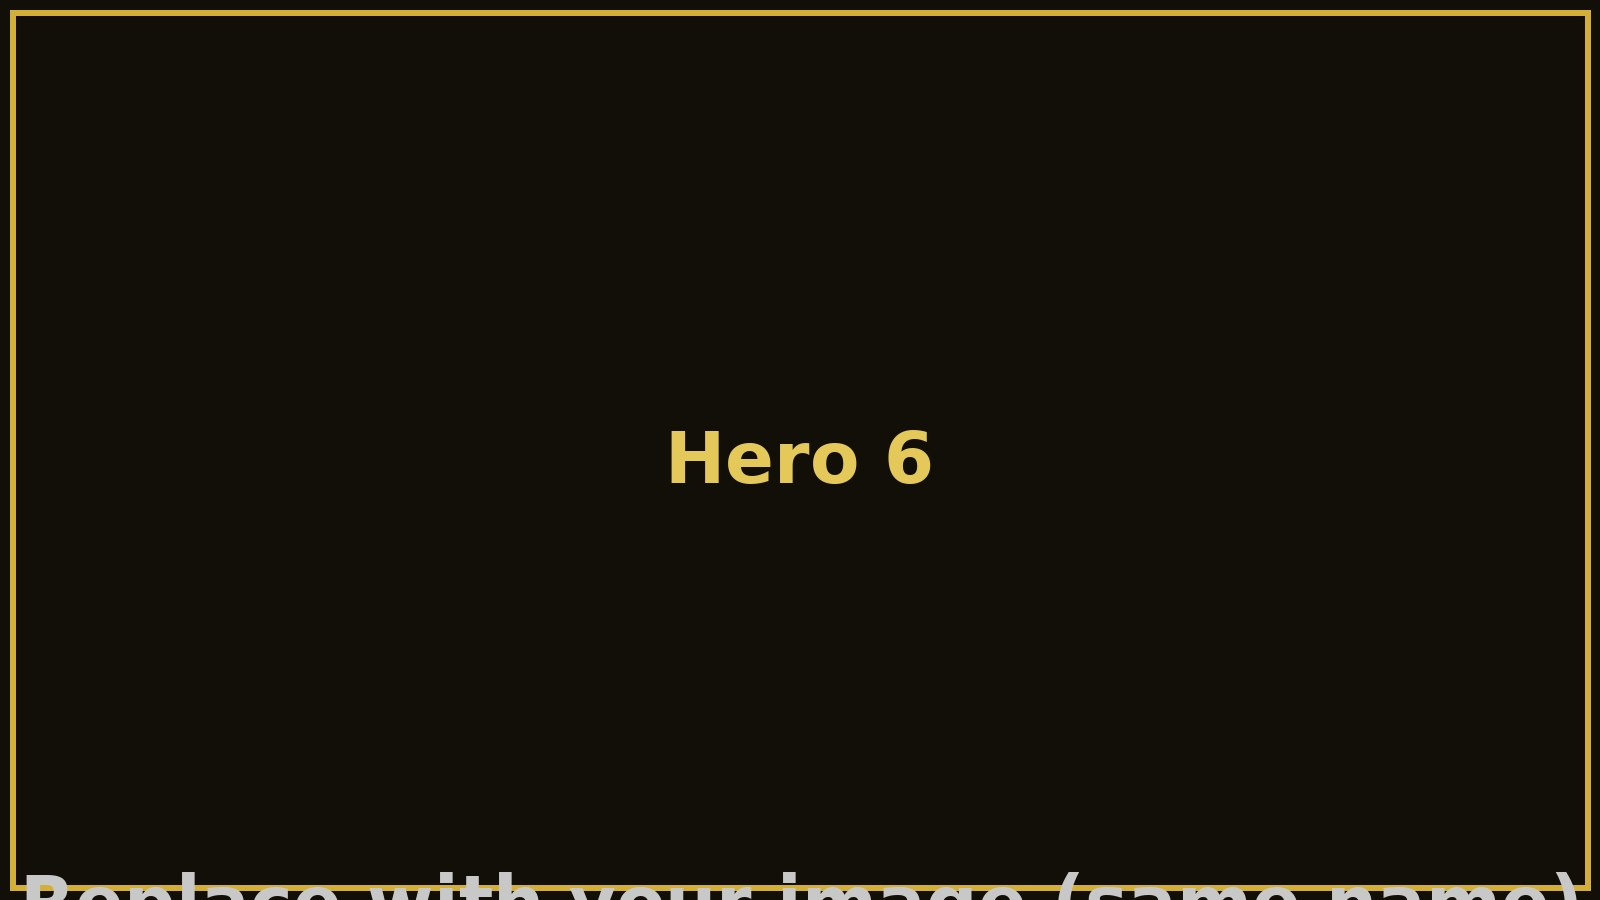
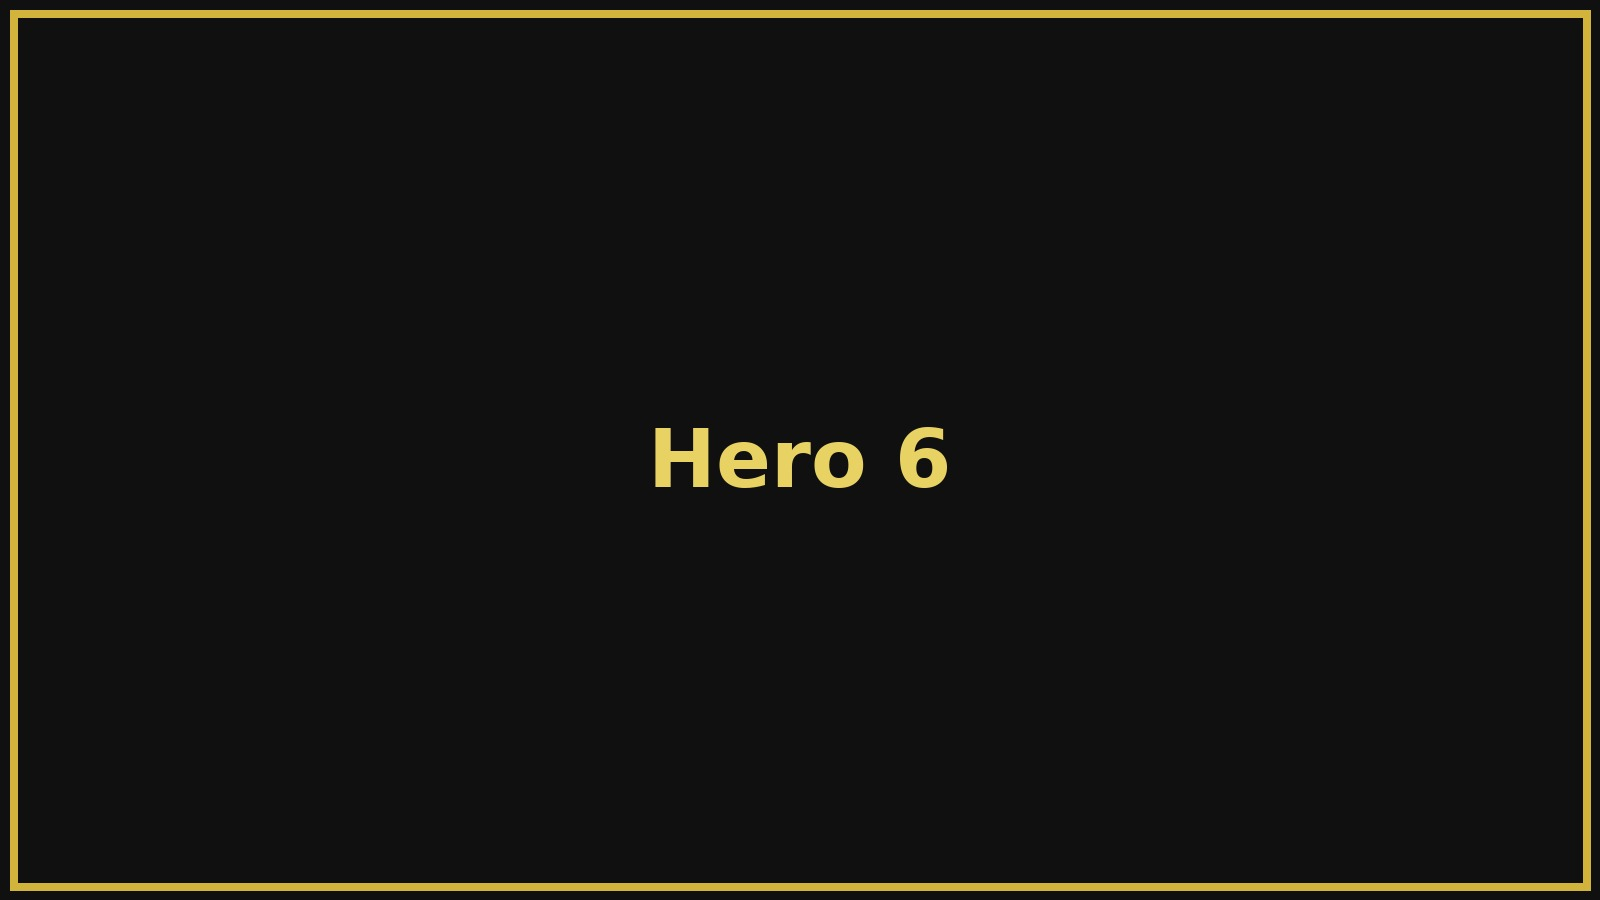
Add files via upload

Changed region(s): [[0.0, 0.9644, 1.0, 1.0], [0.0312, 0.0, 0.9688, 0.0311], [0.4062, 0.4667, 0.5938, 0.56]]

diff --git a/app.js b/app.js
@@ -1,0 +1,106 @@
+const heroImgs = Array.from({length:8}, (_,i)=>`public/hero/${i+1}.jpg`);
+const actionImgs = Array.from({length:8}, (_,i)=>`public/action/${i+1}.jpg`);
+const nftImgs = Array.from({length:8}, (_,i)=>`public/nft-preview/${i+1}.jpg`);
+
+async function getAddresses(){
+  const r = await fetch(`config/addresses.json?v=${Date.now()}`);
+  return r.json();
+}
+function preload(urls){ urls.forEach(u=>{ const im=new Image(); im.src=u; }); }
+
+function drawDonut(canvas, items){
+  const ctx = canvas.getContext('2d');
+  const DPR = window.devicePixelRatio || 1;
+  const W = canvas.clientWidth * DPR, H = canvas.clientHeight * DPR;
+  canvas.width=W; canvas.height=H;
+  const cx=W/2, cy=H/2, R=Math.min(W,H)/2-8*DPR, r=R*0.62;
+  const total = items.reduce((a,b)=>a+b.value,0)||1;
+  let a0 = -Math.PI/2;
+  const base = [50,120,190,260,320];
+  items.forEach((it,i)=>{
+    const a1 = a0 + 2*Math.PI*(it.value/total);
+    const hue = base[i%base.length];
+    ctx.beginPath();
+    ctx.arc(cx,cy,R,a0,a1);
+    ctx.arc(cx,cy,r,a1,a0,true);
+    ctx.closePath();
+    ctx.fillStyle = `hsl(${hue} 80% 58%)`;
+    ctx.fill();
+    a0=a1;
+  });
+  ctx.fillStyle = '#f5e6b3';
+  ctx.font = `${16*DPR}px system-ui`;
+  ctx.textAlign='center';
+  ctx.fillText('Tokenomics', cx, cy+6*DPR);
+}
+
+function renderGrid(el, srcs, labelPrefix){
+  el.innerHTML = srcs.map((src,i)=>`
+    <div class="card">
+      <img alt="${labelPrefix} ${i+1}" src="${src}"/>
+      <div class="title">${labelPrefix} ${i+1}</div>
+    </div>
+  `).join('');
+}
+function zero2(n){ return n.toString().padStart(2,'0'); }
+
+(async function init(){
+  const addr = await getAddresses();
+  const token = addr.token;
+  document.getElementById('buy').href = `https://pancakeswap.finance/swap?outputCurrency=${token}`;
+  document.getElementById('scan').href = `https://bscscan.com/token/${token}`;
+  document.getElementById('tg').href = 'https://t.me/+p1BMrdypmDFmNTA1';
+  document.getElementById('x').href = 'https://x.com/Flexcoinmeme';
+
+  const hero = document.getElementById('hero-img');
+  let idx=0;
+  setInterval(()=>{
+    idx=(idx+1)%heroImgs.length;
+    hero.style.opacity=0.0;
+    setTimeout(()=>{ hero.src=heroImgs[idx]; hero.style.opacity=1; }, 200);
+  }, 3500);
+
+  preload([...heroImgs, ...actionImgs, ...nftImgs]);
+
+  const target = new Date('2025-12-01T12:00:00Z').getTime();
+  function tick(){
+    const now = Date.now();
+    let s = Math.max(0, Math.floor((target-now)/1000));
+    const d = Math.floor(s/86400); s-=d*86400;
+    const h = Math.floor(s/3600); s-=h*3600;
+    const m = Math.floor(s/60); s-=m*60;
+    document.getElementById('dd').textContent=d;
+    document.getElementById('hh').textContent=zero2(h);
+    document.getElementById('mm').textContent=zero2(m);
+    document.getElementById('ss').textContent=zero2(s);
+  }
+  tick(); setInterval(tick,1000);
+
+  renderGrid(document.getElementById('action-grid'), actionImgs, 'Action');
+  renderGrid(document.getElementById('nft-grid'), nftImgs, 'NFT');
+
+  const tokenomics = [
+    {label:'Liquidity Pool', value:69},
+    {label:'Presale', value:10},
+    {label:'Marketing', value:10},
+    {label:'Team (Lock 6m + 6m linear)', value:10},
+    {label:'Burn', value:1},
+  ];
+  drawDonut(document.getElementById('donut'), tokenomics);
+  document.getElementById('legend').innerHTML = tokenomics.map((t,i)=>`
+    <div style="display:flex;align-items:center;gap:8px">
+      <span style="width:12px;height:12px;border-radius:50%;background:hsl(${[50,120,190,260,320][i%5]} 80% 58%)"></span>
+      <span>${t.label}: <b>${t.value}%</b></span>
+    </div>
+  `).join('');
+
+  const langs = ['en','ko','ja','zh','es','de','pt','it'];
+  const grid = document.getElementById('wp-grid');
+  grid.innerHTML = langs.map(code=>{
+    const label = code.toUpperCase() + ' PDF';
+    return `<a class="card" href="public/whitepaper/whitepaper_${code}.pdf" target="_blank"><div class="title">${label}</div></a>`;
+  }).join('');
+
+  document.getElementById('footer').textContent =
+    `Team/Lock: ${addr.team} • Marketing: ${addr.marketing} • Receiver: ${addr.receiver} • Burn: ${addr.burn}`;
+})();

diff --git a/styles.css b/styles.css
@@ -1,0 +1,40 @@
+*{box-sizing:border-box}
+:root{
+  --bg:#0a0a0a; --panel:#111; --gold:#e8c84a; --gold2:#caa93a; --ink:#efe6c9;
+  --stroke:rgba(255,215,0,.35);
+}
+html,body{margin:0;padding:0;background:#000;color:#f4f0d9;font-family:ui-sans-serif,system-ui,-apple-system,Segoe UI,Roboto}
+.wrap{max-width:1180px;margin:0 auto;padding:16px}
+h1{font-size:36px;letter-spacing:.5px;text-shadow:0 2px 10px rgba(255,220,90,.25)}
+.section{font-size:28px;margin:24px 0 8px}
+
+.hero{position:relative;width:100%;aspect-ratio:16/9;overflow:hidden;border-radius:18px;border:2px solid var(--stroke);box-shadow:0 0 30px rgba(255,215,0,.12);margin-bottom:36px}
+.hero img{position:absolute;inset:0;width:100%;height:100%;object-fit:cover;transition:opacity .6s ease}
+.badge{position:absolute;left:16px;top:16px;background:rgba(0,0,0,.55);border:1px solid var(--stroke);padding:6px 10px;border-radius:10px;font-weight:700}
+
+.countdown{display:flex;gap:10px;align-items:center;justify-content:flex-start;margin:12px 0 16px}
+.countdown .cell{display:flex;flex-direction:column;align-items:center;justify-content:center;border:1px solid var(--stroke);border-radius:10px;padding:8px 12px;background:linear-gradient(#1a1a1a,#0d0d0d)}
+.countdown .cell div{font-size:22px;font-weight:800}
+.countdown .cell span{font-size:12px;opacity:.85}
+
+.btns{display:flex;flex-wrap:wrap;gap:12px;margin-bottom:18px}
+.btn{display:inline-block;padding:12px 18px;border-radius:14px;border:1px solid var(--stroke);background:linear-gradient(var(--gold),var(--gold2));color:#171309;text-decoration:none;font-weight:700;box-shadow:0 6px 18px rgba(255,215,0,.15)}
+.btn:hover{transform:translateY(-1px)}
+
+.row{display:grid;grid-template-columns:repeat(4,minmax(0,1fr));gap:16px}
+.card{position:relative;background:#111;border:1px solid var(--stroke);border-radius:14px;overflow:hidden;display:flex;align-items:center;justify-content:center;aspect-ratio:1/1}
+.card img{display:block;width:100%;height:100%;object-fit:contain;background:#0b0b0b}
+.card .title{position:absolute;inset:auto 0 10px 0;text-align:center;font-weight:800;color:#e9d98c;text-shadow:0 1px 3px rgba(0,0,0,.5)}
+
+#donut-wrap{display:flex;align-items:center;gap:16px;flex-wrap:wrap}
+#donut{width:260px;height:260px;background:#0c0c0c;border-radius:14px;border:1px solid var(--stroke)}
+#legend{display:flex;flex-direction:column;gap:6px}
+
+.foot{margin:40px 0 20px;opacity:.8}
+
+/* --- Extra Hotfixes --- */
+.card :is(.placeholder,.helper,[data-placeholder],[data-helper]){ display:none !important; }
+.card *{ line-height:1.2; }
+.section + .row{ margin-top: 16px; }
+@media (max-width: 920px){ .row{grid-template-columns:repeat(2,minmax(0,1fr))} #donut{width:220px;height:220px} }
+@media (max-width: 520px){ .card{ padding-bottom:1px } }

diff --git a/index.html b/index.html
@@ -1,16 +1,56 @@
 <!doctype html>
 <html lang="en">
-  <head>
-    <meta charset="UTF-8" />
-    <meta name="viewport" content="width=device-width, initial-scale=1.0" />
-    <title>Flexcoin — Enjoy. Earn. Flex.</title>
-    <meta name="theme-color" content="#0a0a0a"/>
-    <meta property="og:title" content="Flexcoin — The Meme Coin of Luxury" />
-    <meta property="og:image" content="/og.jpg" />
-    <link rel="manifest" href="/site.webmanifest" />
-  </head>
-  <body>
-    <div id="app"></div>
-    <script type="module" src="/src/main.ts"></script>
-  </body>
+<head>
+  <meta charset="utf-8" />
+  <meta name="viewport" content="width=device-width, initial-scale=1" />
+  <title>Flexcoin — The Meme Coin of Luxury</title>
+  <link rel="icon" href="public/favicon.ico" />
+  <link rel="stylesheet" href="styles.css" />
+</head>
+<body>
+  <header class="wrap">
+    <h1>Flexcoin — The Meme Coin of Luxury</h1>
+  </header>
+
+  <main class="wrap">
+    <section id="hero" class="hero section" aria-label="Hero rotator">
+      <img id="hero-img" alt="Hero image" src="public/hero/1.jpg">
+      <div class="badge">FLEX • BSC (56)</div>
+    </section>
+
+    <section class="cta">
+      <div id="countdown" class="countdown">
+        <div class="cell"><div id="dd">--</div><span>days</span></div>
+        <div class="cell"><div id="hh">--</div><span>hrs</span></div>
+        <div class="cell"><div id="mm">--</div><span>min</span></div>
+        <div class="cell"><div id="ss">--</div><span>sec</span></div>
+      </div>
+      <div class="btns">
+        <a class="btn" id="buy" target="_blank">Buy on PancakeSwap</a>
+        <a class="btn" id="scan" target="_blank">BscScan: Token</a>
+        <a class="btn" id="tg" target="_blank">Telegram</a>
+        <a class="btn" id="x" target="_blank">X (Twitter)</a>
+      </div>
+    </section>
+
+    <h2 class="section">Action Preview</h2>
+    <div class="row cols-4" id="action-grid"></div>
+
+    <h2 class="section">NFT Preview — Flex Your NFT</h2>
+    <div class="row cols-4" id="nft-grid"></div>
+
+    <h2 class="section">Tokenomics</h2>
+    <div id="donut-wrap">
+      <canvas id="donut"></canvas>
+      <div id="legend"></div>
+    </div>
+
+    <h2 class="section">Whitepaper (8 Languages)</h2>
+    <div class="row cols-4" id="wp-grid"></div>
+
+    <footer id="footer" class="foot"></footer>
+  </main>
+
+  <script type="module" src="app.js"></script>
+</body>
 </html>
